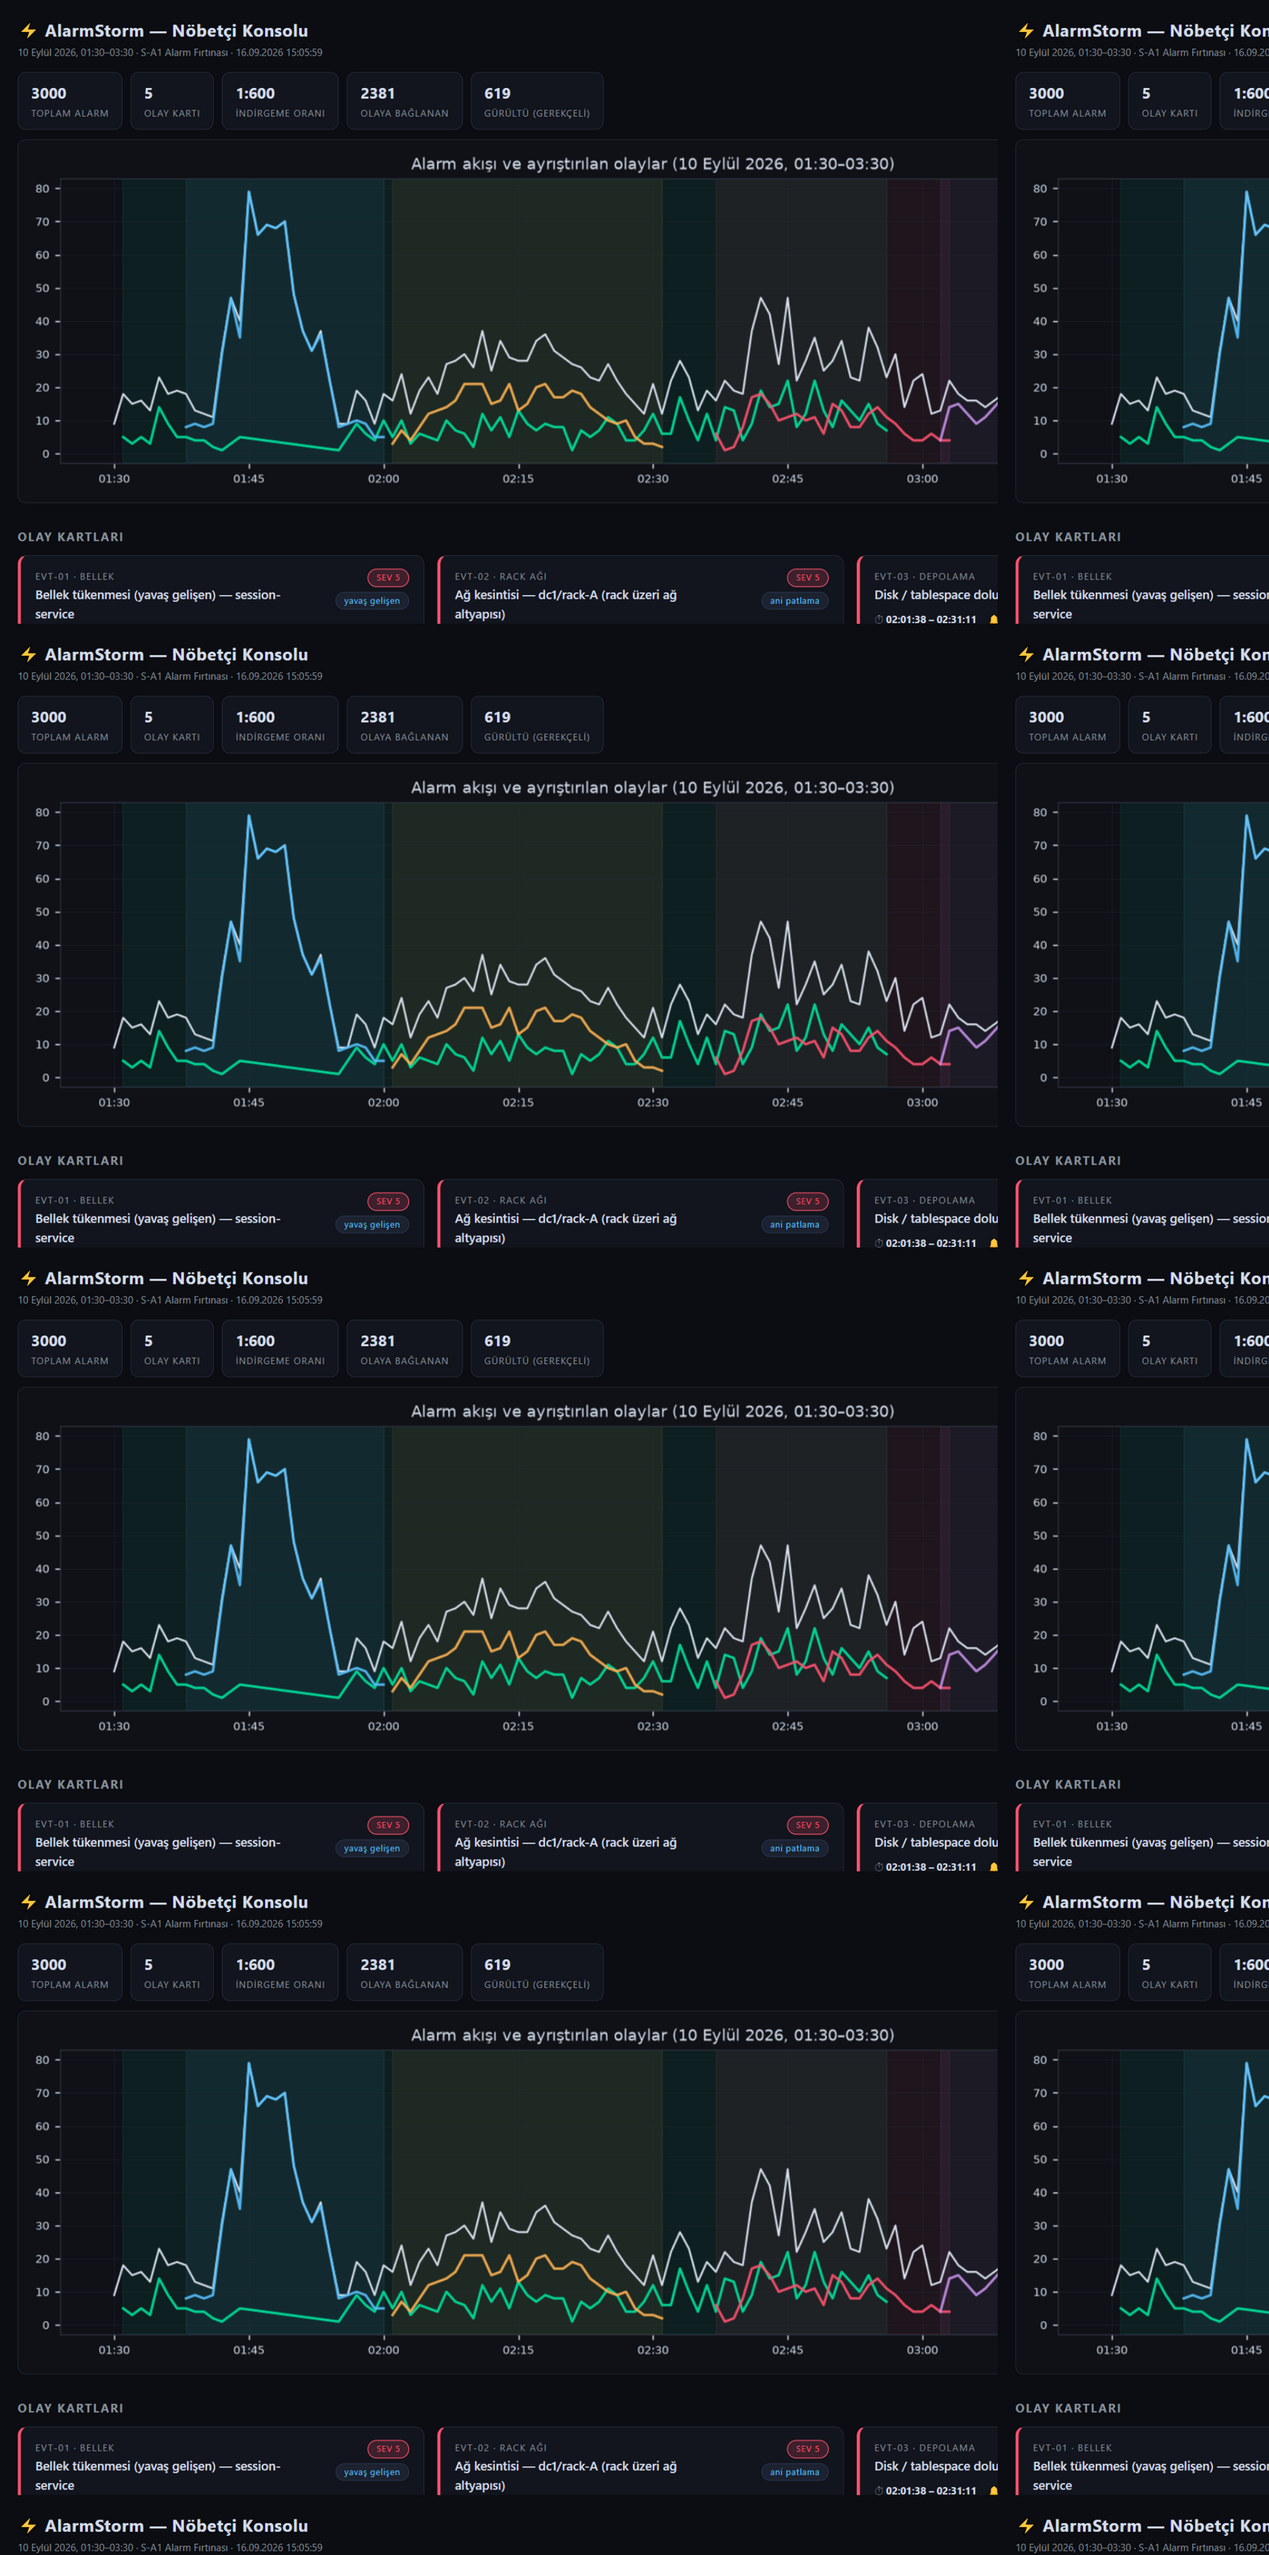
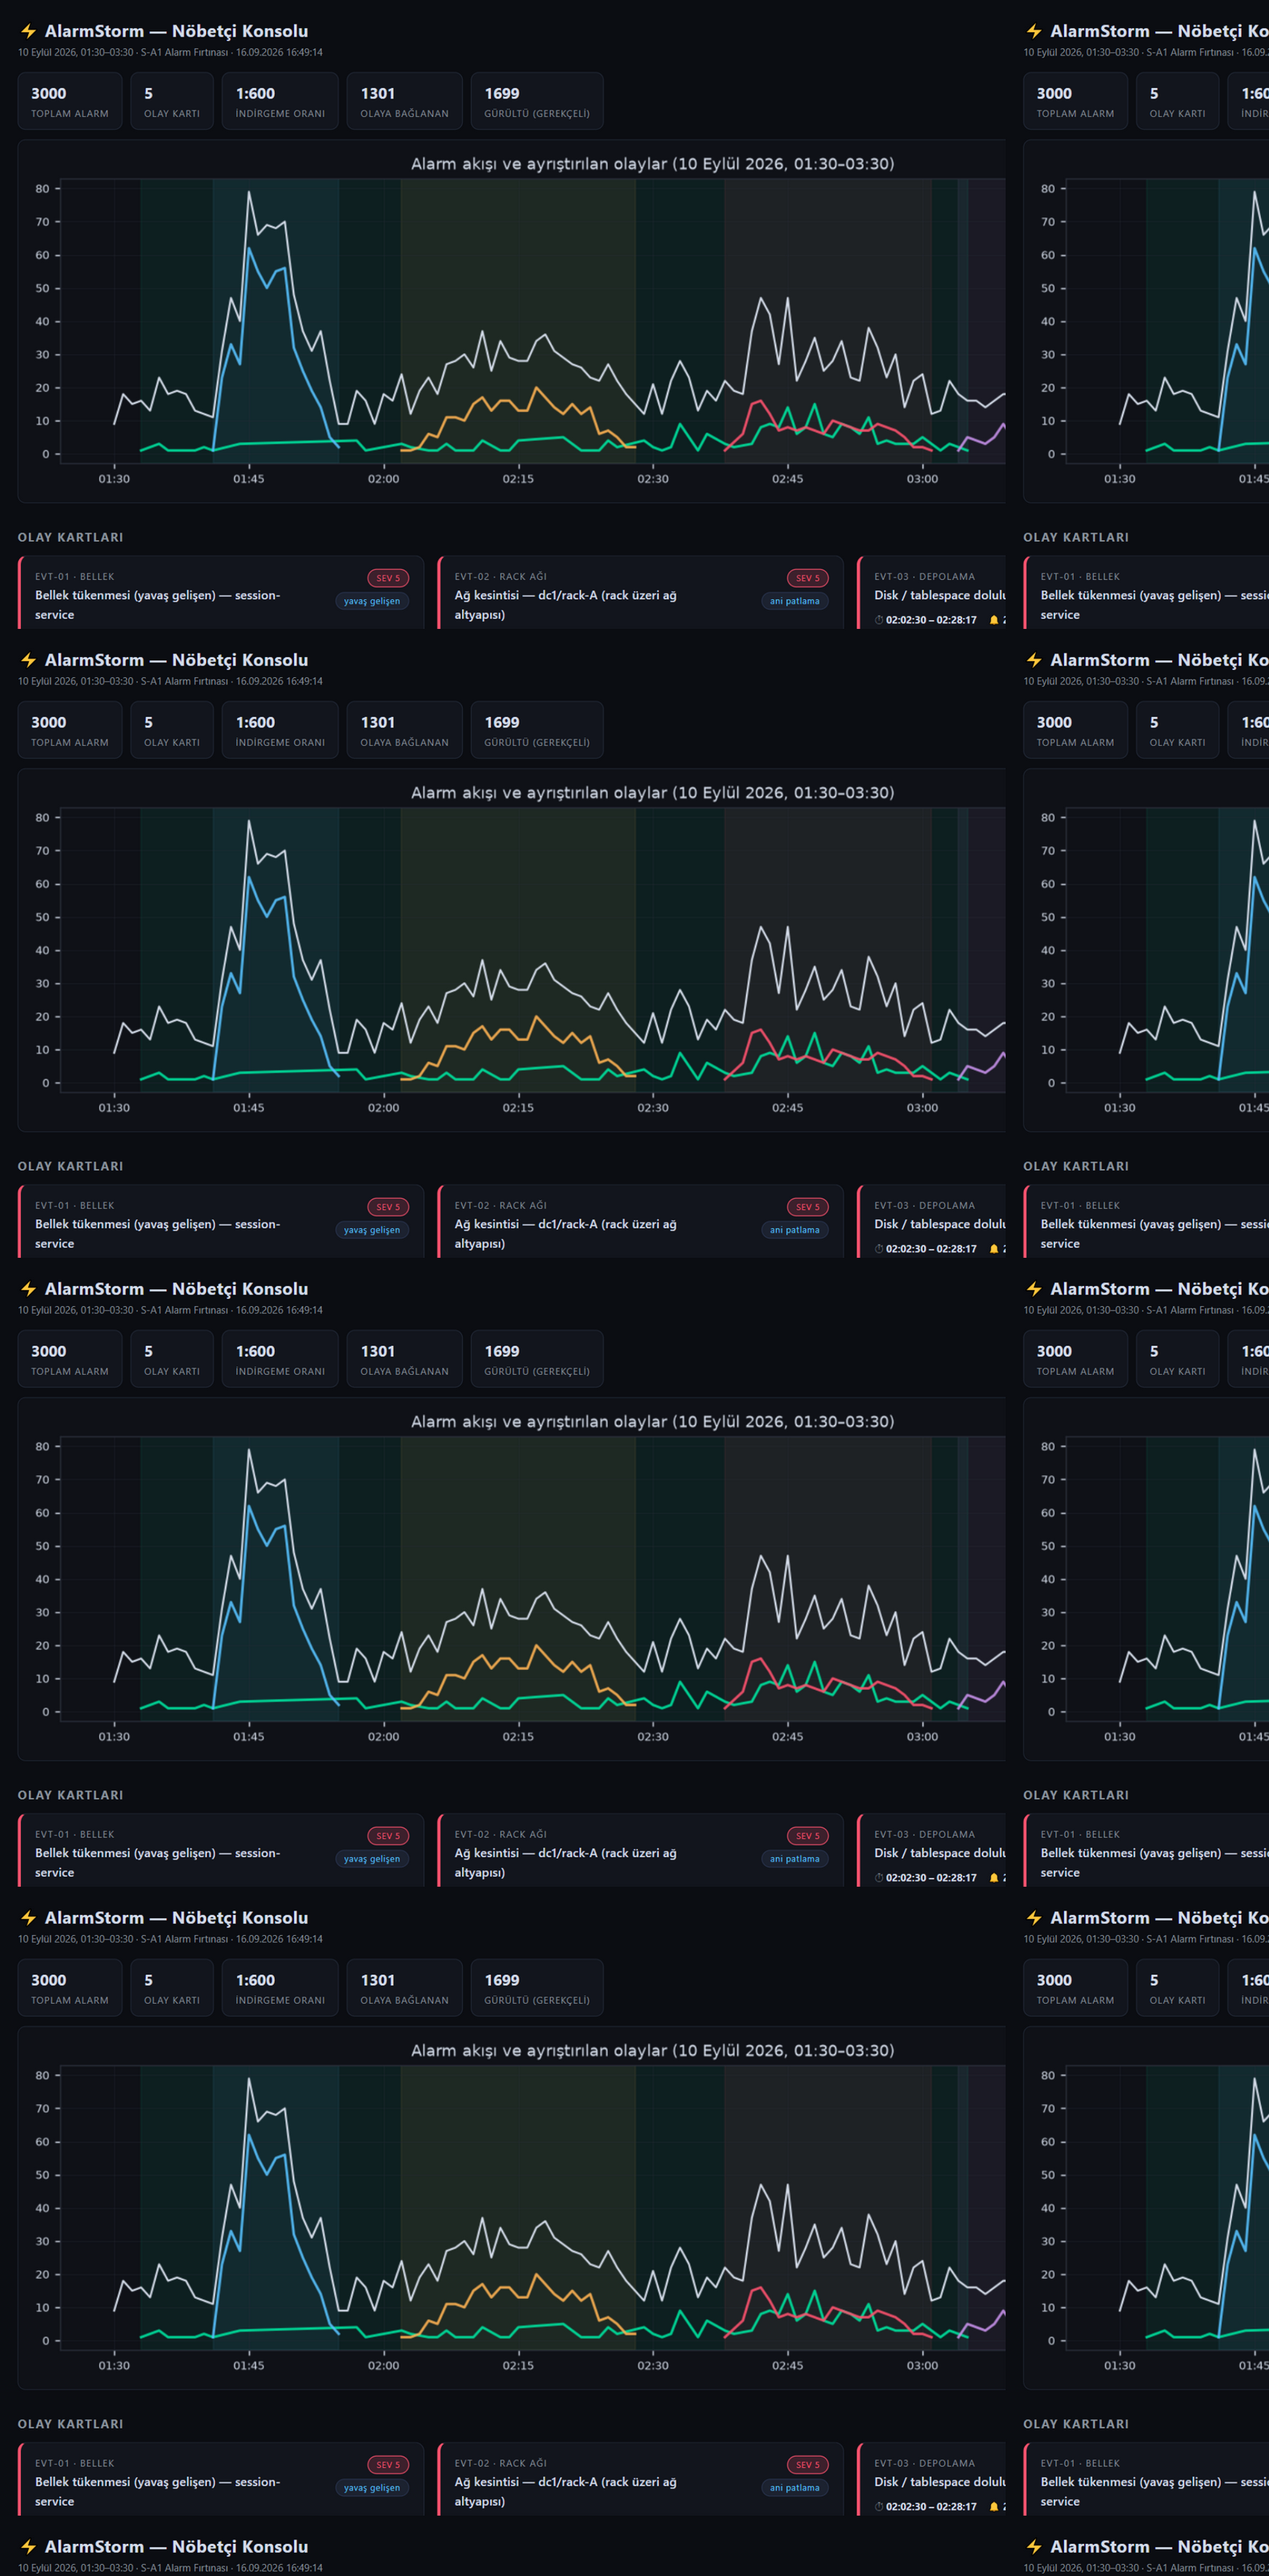
docs(delivery): email-compliance pass - refreshed demo screenshots, fazlar Faz-6, prompts round-2 log
- demo/dashboard_full.png + dashboard_top.png regenerated from the fixed
  dashboard (1301 attached / 1699 noise) so screenshots no longer contradict
  submission.json's measured numbers.
- docs/fazlar.md: Faz 6 (self-audit pass) added; legacy 619 annotated.
- prompts/2026-09-16_engine_iterations.md: round-2 iteration table (noise
  absorption, tail loss, counter fill, EVT-05 direction proof) recorded.
- Verified against the announcement checklist: mandatory structure complete
  (README, AI_JURI, submission.json, .env.example, CLAUDE.md, docs/ trio,
  prompts/, demo/, src/), repo public, no .env, all claims evidence-pathed,
  AI tooling declared (ZCode/GLM-5.3, no SAKA).

diff --git a/docs/fazlar.md b/docs/fazlar.md
@@ -17,7 +17,7 @@ Olay gününde uygulanan fazlar, kabul kriterleriyle.
 ## Faz 3 — Çekirdek motor (14:50–15:05)
 - Anomali hücreleri → tohum → attach → kök skorlama → gürültü denetimi.
 - Ara kabul: 3.000 alarm tam işlenir; küme sayısı stabil; yanlış birleşimler düzeltilmiş (iterasyon geçmişi commit'lerde).
-- Kabul: **5 olay kartı** (≤15), her kartta zorunlu tüm alanlar; 619 alarm gerekçeli gürültü.
+- Kabul: **5 olay kartı** (≤15), her kartta zorunlu tüm alanlar; 619 alarm gerekçeli gürültü (bu sayı Faz 6'da 1.699'e yükseldi).
 
 ## Faz 4 — Ürünleştirme (15:05–15:15)
 - Olay kartları metinleri (XAI), PNG grafikler, tek dosya dashboard, aksiyon yaşam döngüsü sunucusu; görsel doğrulama + `demo/` ekran görüntüleri.
@@ -26,3 +26,9 @@ Olay gününde uygulanan fazlar, kabul kriterleriyle.
 ## Faz 5 — Teslim (hedef aralığın çok üzerinde erkenden)
 - README (kurulum+kullanım+kütüphane beyanı), AI_JURI.md (kanıtlı), docs/ üçlüsü, `prompts/`, `submission.json`, `pip freeze > requirements.txt`.
 - Kabul: son kontrol listesi tam; son commit 17:30 sert sınırından çok önce atılmış.
+
+## Faz 6 — Öz-denetim geçişi (16:30–17:15, kullanıcı kararı)
+- Şüphe: "senaryo yazarı çözümü yanlış yöne çekebilecek bir tuzak kurmuş olabilir." İç denetim aracı `scripts/trap_audit/` kuruldu (yalnız denetimde kullanılan mekanik proxy; motor ve teslim dokümanları alarm_id'yi asla kullanmaz).
+- Bulgular: eski çalışma 1.762 uniform gürültü alarmının 1.157'sini kartlara emmişti (%35 gürültü eleme recall); 14 gerçek kaskad kuyruğu alarmı (dahil tek sev5 ALM-01048) gürültü sanılmıştı; EVT-05 kök yönü doğrulandı (subscriber-db sinyalleri batch_overlap'ten önce).
+- Düzeltme: attach'e çekirdek-kanıt kapısı (blame / anomali / sert hata işareti / sev≥4) + 3 süpürme + ölçümlü karşı-olasılık dolgusu. Sonuç: gürültü eleme %34.3→%92.2, tüm 248 sev5 kartlarda, 5 kart ve kökler değişmedi.
+- Kabul: teslim dokümanları (README/AI_JURI/submission.json/docs) yeni ölçülmüş rakamlarla tutarlı; `demo/` görüntüleri yeni dashboard'dan.

diff --git a/prompts/2026-09-16_engine_iterations.md b/prompts/2026-09-16_engine_iterations.md
@@ -25,3 +25,16 @@
 ## İnsan rolü
 
 Kartlar ve kökler sohbette sunuldu; insan "5 olay hipotezinin motor tarafından bağımsız olarak yeniden üretilmiş olması"nın sunumda vurgulanmasını istedi (AI_JURI.md §1-2'ye işlendi).
+
+## 2. Tur — Öz-denetim geçişi (16:30–17:15, kullanıcı kararı: "bir yerlerde bize gol atılmış olabilir")
+
+Kullanıcı senaryo yazarından ("Selahattin abi") gelmiş olabilecek bilinçli bir tuzağa karşı belirleyici bir denetim istedi. Ajan `scripts/trap_audit/` iç denetim aracını kurdu (proxy yalnız denetimde; motor ve teslim dokümanları alarm_id'yi kullanmaz):
+
+| # | Bulgular | Kök neden | Düzeltme |
+|---|---|---|---|
+| A | Eski çalışma 1.762 uniform gürültü alarmının 1.157'sini kartlara emmişti (EVT-01 %65, EVT-05 %67 gürültü) | "aynı servis"/"graf yakınlığı" puanı her severity'de bağlanıyordu; geniş olay pencereleri gürültüyü yutuyordu | attach'e çekirdek-kanıt kapısı: blame hedefi, anomali, sert hata işareti veya sev≥4 olmayan alarm kartlara giremez (`not_core_evidence` gerekçesiyle elenir) |
+| B | 14 gerçek kaskad kuyruğu alarmı gürültü sanıldı (02:57–03:03 auth/web-bff/mobile-bff; dahil tek sev5 ALM-01048) | pencere 2 süpürmede geç büyüyor, timestamp-sıralı geçiş kuyruklara yeniden teklif yapamıyordu | süpürme 2→3; güçlü alarmlar komşu servislerde de çekirdek kanıt sayılır |
+| C | EVT-01/04 karşı-olasılıkları boş (tek servisli tohum) | aday havuzunda root'tan başka servis yoktu | etkilenen servislerden ölçümlü dolgu adayları |
+| D | EVT-05 kök yönü şüphesi | — | KANIT: subscriber-db sinyalleri 03:03:50'de, batch_overlap 03:05:28'de → kök subscriber-db doğru, değişiklik yok |
+
+**Sonuç (2. tur):** 5 kart ve kökler değişmedi; bağlı alarm 2.381→1.301 (1.124 olay bandı), gürültü 1.699 gerekçeli; iç proxy'ye göre gürültü eleme %34.3→%92.2, tüm 248 sev5 kartlarda; kalan 74 elenen gerçek dahil tümü sev3 tekil zayıf sinyal (54'ü blame'siz latency_high).
